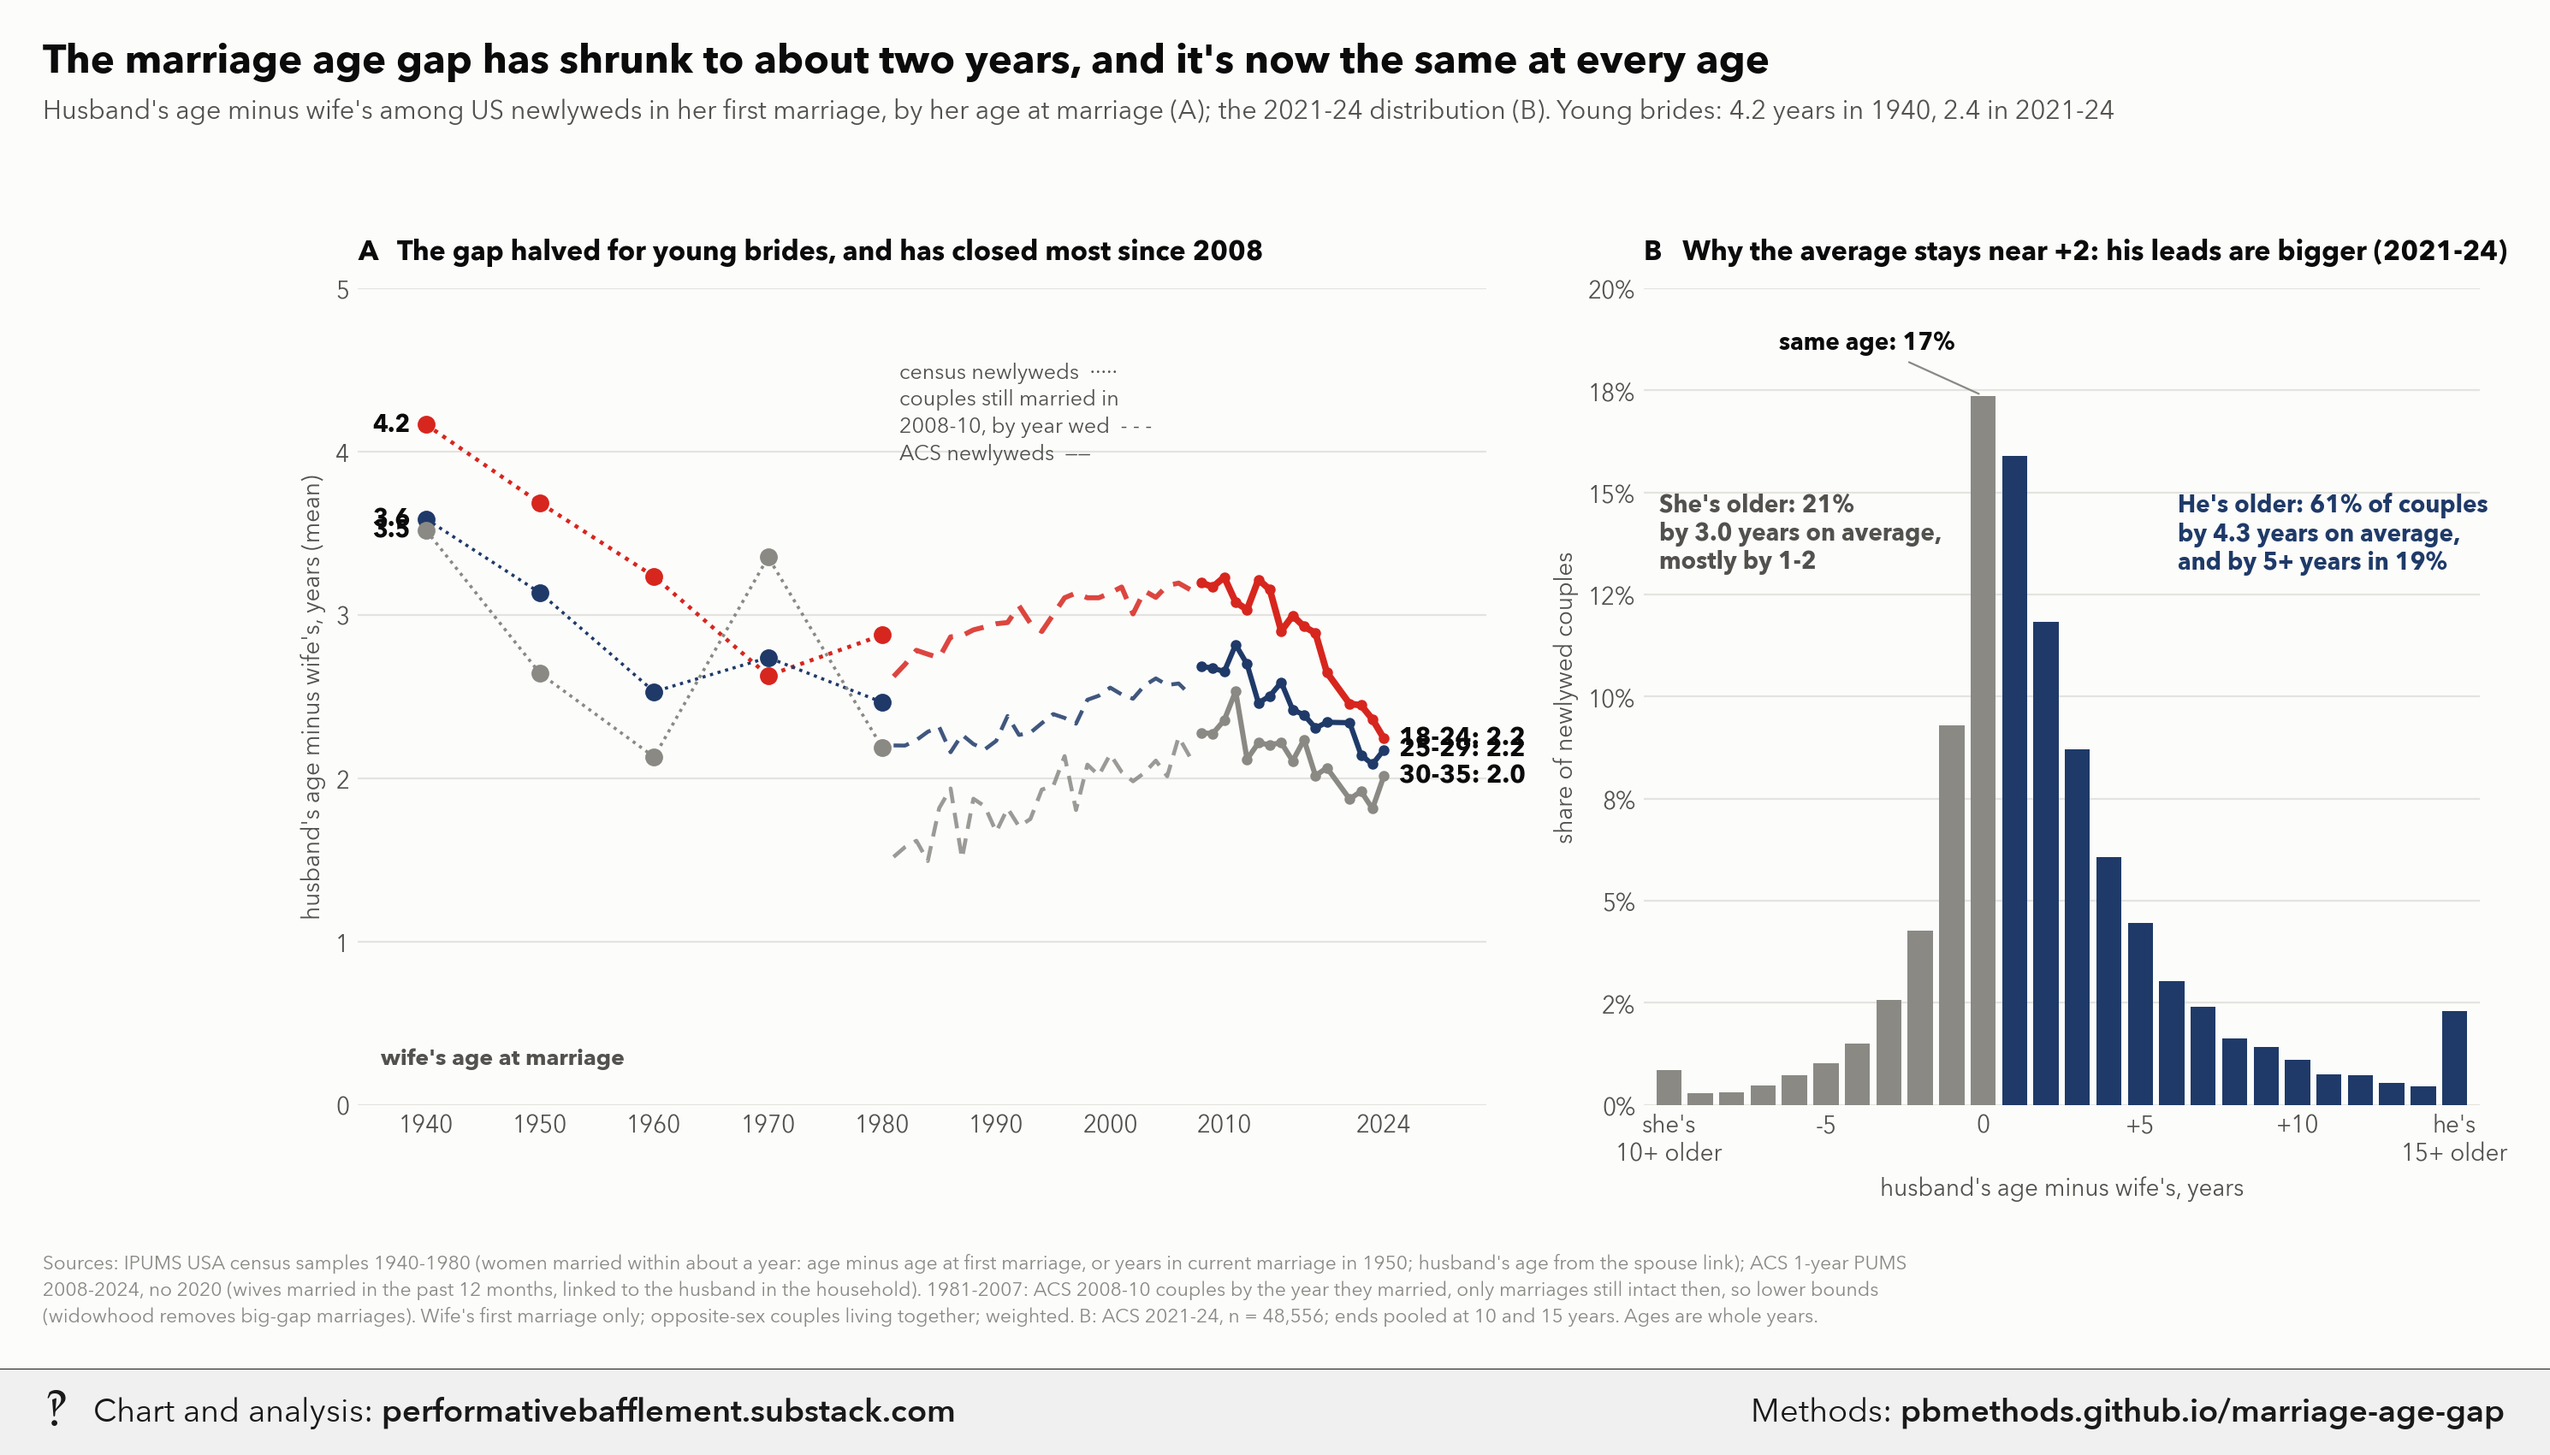
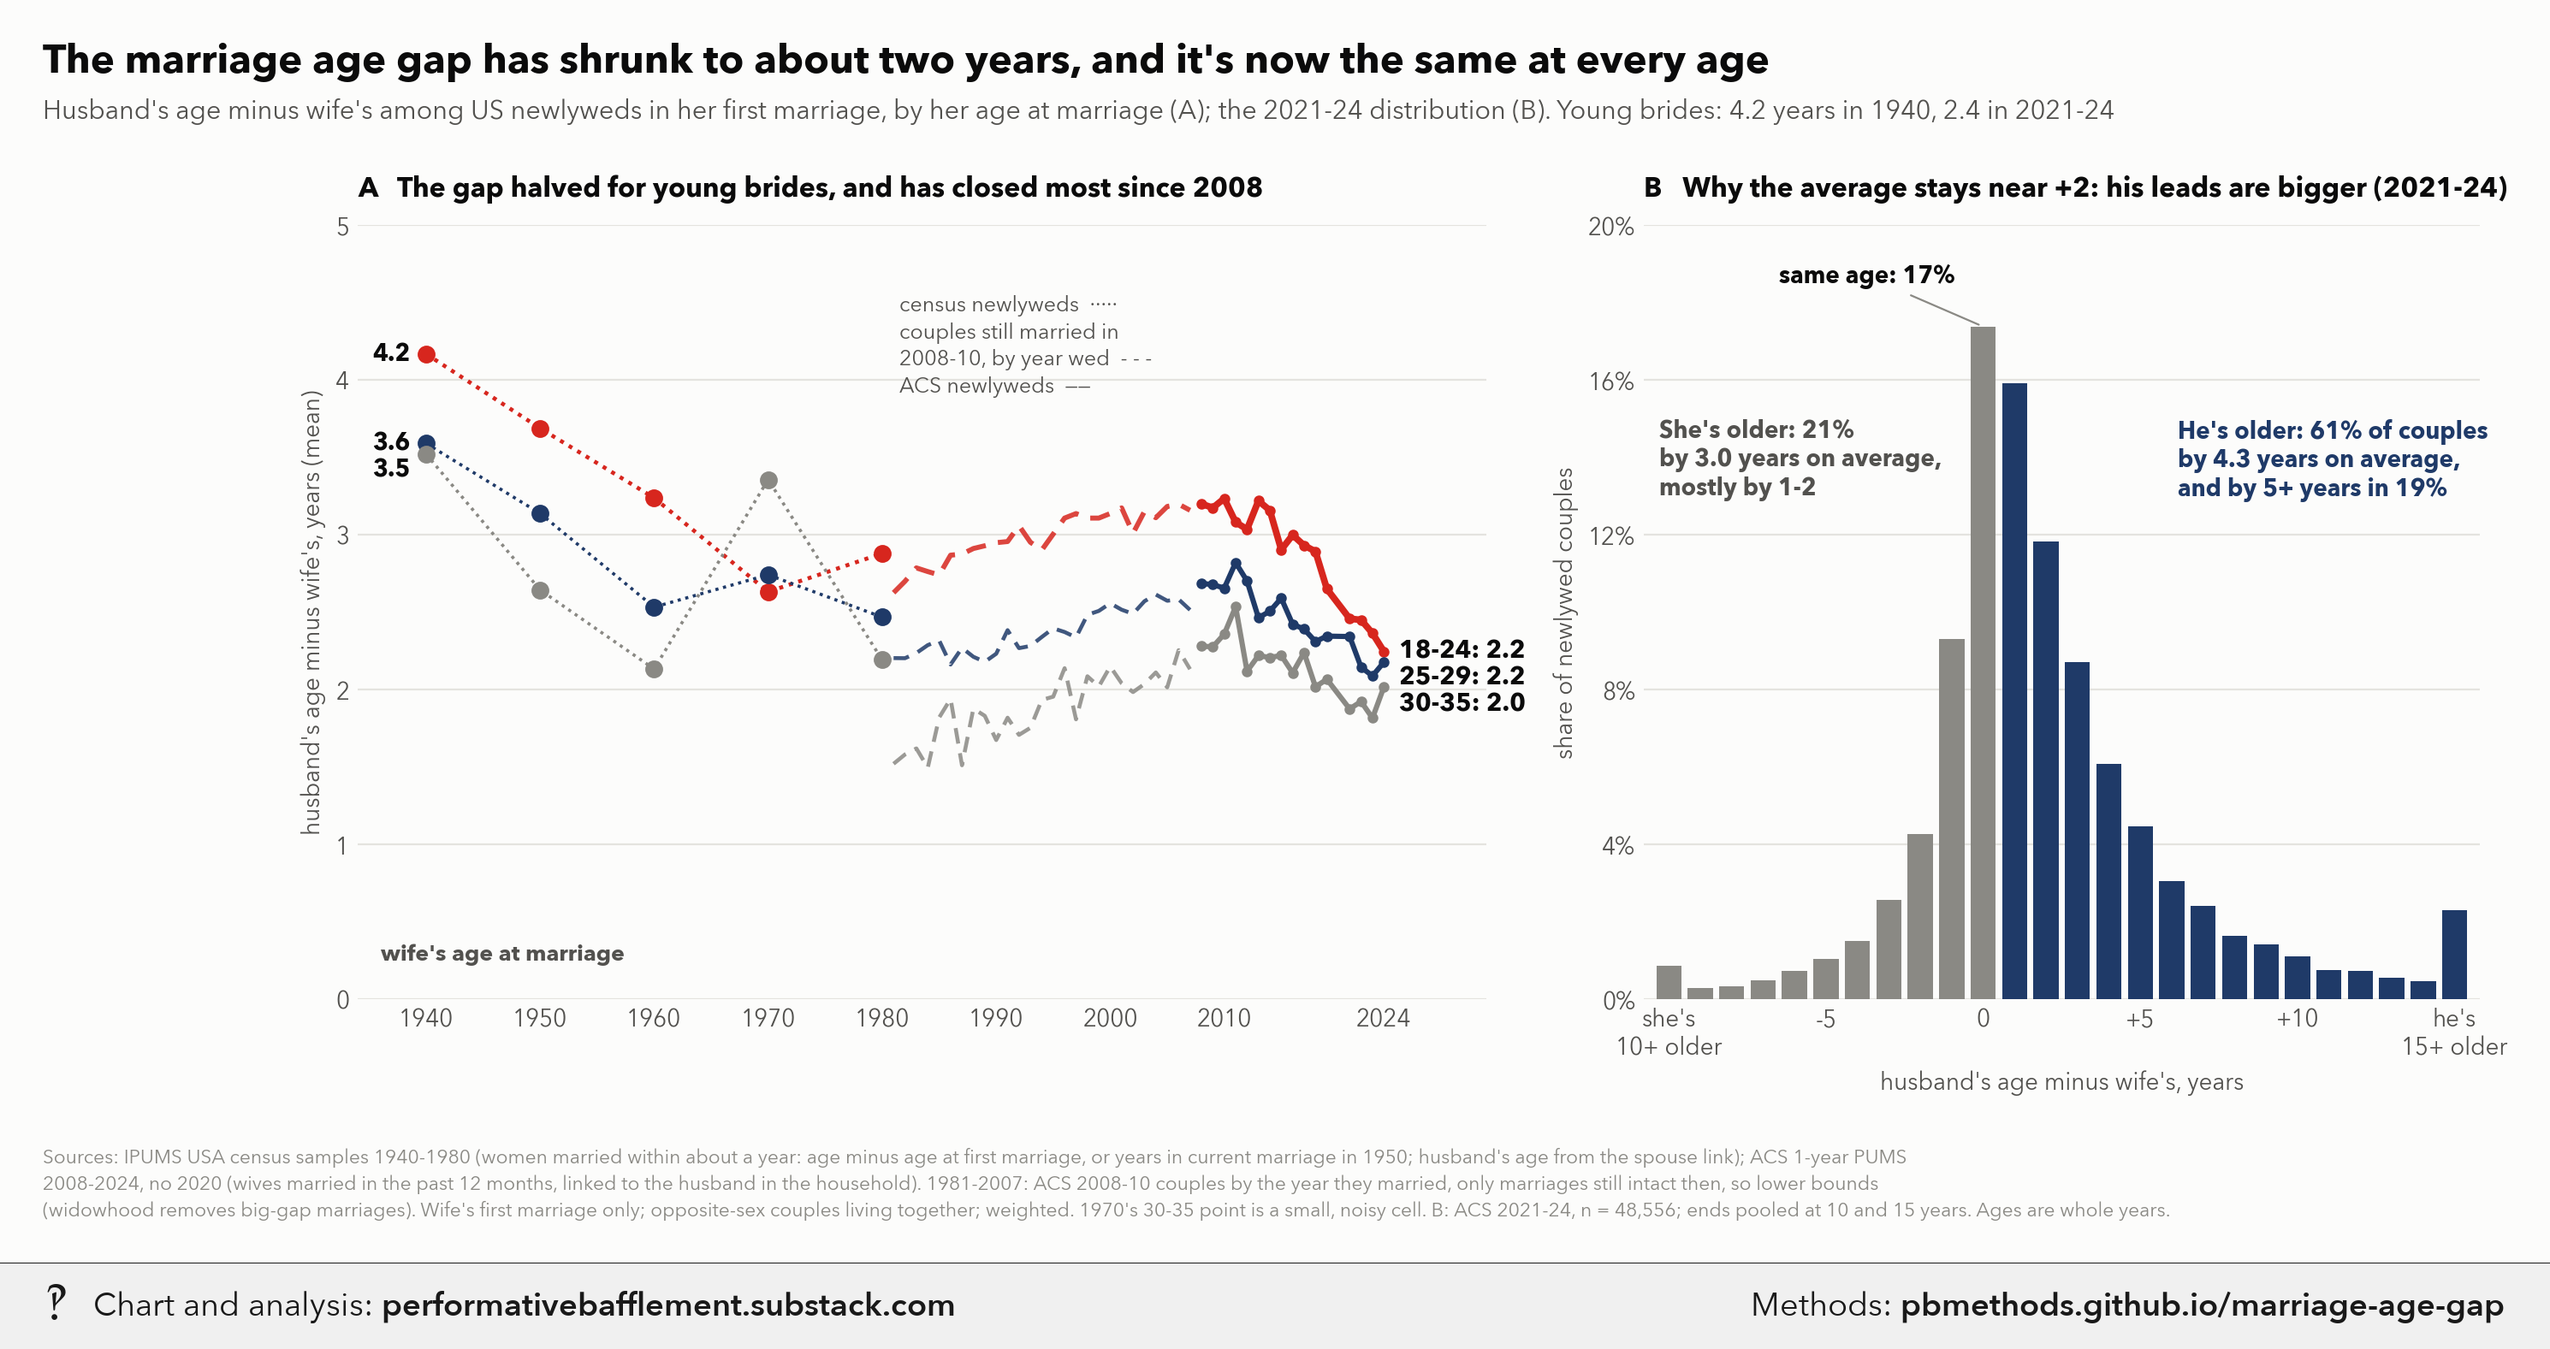
Update marriage-age-gap

diff --git a/marriage-age-gap/index.html b/marriage-age-gap/index.html
@@ -1210,8 +1210,19 @@ dist = pd.read_csv(HERE / &quot;age_gap_distribution_2021_24.csv&quot;)
 recent = d[d.year.ge(2021) &amp; d.source.eq(&quot;ACS newlyweds&quot;)].groupby(&quot;band&quot;).mean(numeric_only=True)
 
 fig, (ax, bx) = plt.subplots(1, 2, figsize=(16, 6.2), gridspec_kw=dict(width_ratios=[1.35, 1], wspace=0.16))
+fig.subplots_adjust(top=0.84)
 
 # ---------------------------------------------------------------- A: trend
+def spread(vals, gap=0.17):
+    &quot;&quot;&quot;Nudge label heights apart (top to bottom) so they don't overlap.&quot;&quot;&quot;
+    order = sorted(vals, key=vals.get, reverse=True); out, prev = {}, None
+    for k in order:
+        y = vals[k] if prev is None else min(vals[k], prev - gap)
+        out[k] = prev = y
+    return out
+
+
+ends, starts = {}, {}
 for band, col in BAND_COL.items():
     s = d[d.band.eq(band)]
     cen = s[s.source.eq(&quot;census newlyweds&quot;)].sort_values(&quot;year&quot;)
@@ -1221,13 +1232,11 @@ for band, col in BAND_COL.items():
     ax.plot(cen.year, cen.mean_gap, color=col, lw=lw * 0.6, ls=(0, (1, 1.5)), marker=&quot;o&quot;, ms=6.5, zorder=3)
     ax.plot(rec.year, rec.mean_gap, color=col, lw=lw * 0.75, ls=(0, (4, 2.5)), alpha=0.85, zorder=2)
     ax.plot(acs.year, acs.mean_gap, color=col, lw=lw, marker=&quot;o&quot;, ms=3.5, zorder=3)
-    last = acs.iloc[-1]
-    ax.text(2025.3, last.mean_gap, f&quot;{band}: {last.mean_gap:.1f}&quot;, color=INK, fontsize=10.5, fontweight=&quot;bold&quot;,
-            va=&quot;center&quot;, ha=&quot;left&quot;)
-    first = cen.iloc[0]
-    ax.text(1938.6, first.mean_gap, f&quot;{first.mean_gap:.1f}&quot;, color=INK, fontsize=10, fontweight=&quot;bold&quot;,
-            va=&quot;center&quot;, ha=&quot;right&quot;)
-# keep the 2024 labels apart (25-29 and 30-35 end close together)
+    ends[band], starts[band] = acs.iloc[-1].mean_gap, cen.iloc[0].mean_gap
+for band, y in spread(ends).items():
+    ax.text(2025.3, y, f&quot;{band}: {ends[band]:.1f}&quot;, color=INK, fontsize=10.5, fontweight=&quot;bold&quot;, va=&quot;center&quot;)
+for band, y in spread(starts).items():
+    ax.text(1938.6, y, f&quot;{starts[band]:.1f}&quot;, color=INK, fontsize=10, fontweight=&quot;bold&quot;, va=&quot;center&quot;, ha=&quot;right&quot;)
 ax.set_xlim(1934, 2033); ax.set_ylim(0, 5)
 ax.set_xticks([1940, 1950, 1960, 1970, 1980, 1990, 2000, 2010, 2024])
 ax.set_ylabel(&quot;husband's age minus wife's, years (mean)&quot;)
@@ -1250,16 +1259,16 @@ bx.text(-10.3, 0.15, f&quot;She's older: {r.share_she_older:.0%}\nby {-r.mean_wh
 bx.annotate(f&quot;same age: {r.share_same_age:.0%}&quot;, xy=(0, a.share[a.gap == 0].iloc[0]), xytext=(-6.5, 0.185),
             fontsize=10, fontweight=&quot;bold&quot;, color=INK, arrowprops=dict(arrowstyle=&quot;-&quot;, color=MUTED, lw=0.8))
 bx.set_xticks([-10, -5, 0, 5, 10, 15], [&quot;she's\n10+ older&quot;, &quot;-5&quot;, &quot;0&quot;, &quot;+5&quot;, &quot;+10&quot;, &quot;he's\n15+ older&quot;])
-bx.set_xlim(-10.8, 15.8); bx.set_ylim(0, 0.2)
+bx.set_xlim(-10.8, 15.8); bx.set_ylim(0, 0.2); bx.set_yticks(np.arange(0, 0.21, 0.04))
 bx.yaxis.set_major_formatter(plt.FuncFormatter(lambda v, _: f&quot;{v:.0%}&quot;))
 bx.set_xlabel(&quot;husband's age minus wife's, years&quot;); bx.set_ylabel(&quot;share of newlywed couples&quot;)
 bx.set_title(f&quot;B   Why the average stays near +{r.mean_gap:.0f}: his leads are bigger (2021-24)&quot;, loc=&quot;left&quot;,
              fontsize=11.5, fontweight=&quot;bold&quot;, color=INK, pad=12)
 
 y18 = d[d.band.eq(&quot;18-24&quot;) &amp; d.source.eq(&quot;census newlyweds&quot;) &amp; d.year.eq(1940)].mean_gap.iloc[0]
-fig.text(0.01, 1.075, f&quot;The marriage age gap has shrunk to about two years, and it's now the same at every age&quot;,
+fig.text(0.01, 0.975, f&quot;The marriage age gap has shrunk to about two years, and it's now the same at every age&quot;,
          fontsize=17, fontweight=&quot;bold&quot;, color=INK, ha=&quot;left&quot;, va=&quot;bottom&quot;)
-fig.text(0.01, 1.035, f&quot;Husband's age minus wife's among US newlyweds in her first marriage, by her age at marriage &quot;
+fig.text(0.01, 0.935, f&quot;Husband's age minus wife's among US newlyweds in her first marriage, by her age at marriage &quot;
          f&quot;(A); the 2021-24 distribution (B). Young brides: {y18:.1f} years in 1940, &quot;
          f&quot;{recent.loc['18-24'].mean_gap:.1f} in 2021-24&quot;, fontsize=11, color=INK2, ha=&quot;left&quot;, va=&quot;bottom&quot;)
 n_recent = int(d[d.year.ge(2021) &amp; d.source.eq(&quot;ACS newlyweds&quot;) &amp; d.band.eq(&quot;all 18+&quot;)].n.sum())
@@ -1269,7 +1278,7 @@ fig.text(0.01, -0.03,
          &quot;2008-2024, no 2020 (wives married in the past 12 months, linked to the husband in the household). 1981-2007: &quot;
          &quot;ACS 2008-10 couples by the year they married, only marriages still intact then, so lower bounds\n&quot;
          &quot;(widowhood removes big-gap marriages). Wife's first marriage only; opposite-sex couples living together; &quot;
-         f&quot;weighted. B: ACS 2021-24, n = {n_recent:,}; ends pooled at 10 and 15 years. Ages are whole years.&quot;,
+         f&quot;weighted. 1970's 30-35 point is a small, noisy cell. B: ACS 2021-24, n = {n_recent:,}; ends pooled at 10 and 15 years. Ages are whole years.&quot;,
          fontsize=8.2, color=MUTED, ha=&quot;left&quot;, va=&quot;top&quot;, linespacing=1.45)
 
 OUT_WM.mkdir(parents=True, exist_ok=True); OUT_RAW.mkdir(parents=True, exist_ok=True)

diff --git a/index.html b/index.html
@@ -24,8 +24,8 @@ li{margin:.2rem 0}
 <h1>Performative Bafflement: chart methods</h1>
 <p>Methodology, results and code behind charts from <a href="https://performativebafflement.substack.com/">Performative Bafflement</a>. Each page has a plain-text <code>methods.md</code> for AI fact-checking.</p>
 <ul>
-<li><a href="sex-dynamics/">The master post of sexual and relationship dynamics: looks, money, height, paying for sex, marriage, porn and wanting more</a> (2026-11-14)</li>
 <li><a href="marriage-age-gap/">The husband-wife age gap at marriage, US 1940-2024, by the wife's age at marriage</a> (2026-11-14)</li>
+<li><a href="sex-dynamics/">The master post of sexual and relationship dynamics: looks, money, height, paying for sex, marriage, porn and wanting more</a> (2026-11-14)</li>
 <li><a href="lifestyle-risk/">Obese, sedentary, bad diet, smoking: all-cause death-rate multipliers at ages 40+</a> (2026-11-11)</li>
 <li><a href="spam-calls/">US spam calls vs the world, and what share of your calls are spam</a> (2026-11-11)</li>
 <li><a href="us-uk-gap/">The US–UK life expectancy gap: what drives it, and what four big interventions could buy back</a> (2026-11-11)</li>

diff --git a/marriage-age-gap/methods.md b/marriage-age-gap/methods.md
@@ -384,8 +384,19 @@ dist = pd.read_csv(HERE / "age_gap_distribution_2021_24.csv")
 recent = d[d.year.ge(2021) & d.source.eq("ACS newlyweds")].groupby("band").mean(numeric_only=True)
 
 fig, (ax, bx) = plt.subplots(1, 2, figsize=(16, 6.2), gridspec_kw=dict(width_ratios=[1.35, 1], wspace=0.16))
+fig.subplots_adjust(top=0.84)
 
 # ---------------------------------------------------------------- A: trend
+def spread(vals, gap=0.17):
+    """Nudge label heights apart (top to bottom) so they don't overlap."""
+    order = sorted(vals, key=vals.get, reverse=True); out, prev = {}, None
+    for k in order:
+        y = vals[k] if prev is None else min(vals[k], prev - gap)
+        out[k] = prev = y
+    return out
+
+
+ends, starts = {}, {}
 for band, col in BAND_COL.items():
     s = d[d.band.eq(band)]
     cen = s[s.source.eq("census newlyweds")].sort_values("year")
@@ -395,13 +406,11 @@ for band, col in BAND_COL.items():
     ax.plot(cen.year, cen.mean_gap, color=col, lw=lw * 0.6, ls=(0, (1, 1.5)), marker="o", ms=6.5, zorder=3)
     ax.plot(rec.year, rec.mean_gap, color=col, lw=lw * 0.75, ls=(0, (4, 2.5)), alpha=0.85, zorder=2)
     ax.plot(acs.year, acs.mean_gap, color=col, lw=lw, marker="o", ms=3.5, zorder=3)
-    last = acs.iloc[-1]
-    ax.text(2025.3, last.mean_gap, f"{band}: {last.mean_gap:.1f}", color=INK, fontsize=10.5, fontweight="bold",
-            va="center", ha="left")
-    first = cen.iloc[0]
-    ax.text(1938.6, first.mean_gap, f"{first.mean_gap:.1f}", color=INK, fontsize=10, fontweight="bold",
-            va="center", ha="right")
-# keep the 2024 labels apart (25-29 and 30-35 end close together)
+    ends[band], starts[band] = acs.iloc[-1].mean_gap, cen.iloc[0].mean_gap
+for band, y in spread(ends).items():
+    ax.text(2025.3, y, f"{band}: {ends[band]:.1f}", color=INK, fontsize=10.5, fontweight="bold", va="center")
+for band, y in spread(starts).items():
+    ax.text(1938.6, y, f"{starts[band]:.1f}", color=INK, fontsize=10, fontweight="bold", va="center", ha="right")
 ax.set_xlim(1934, 2033); ax.set_ylim(0, 5)
 ax.set_xticks([1940, 1950, 1960, 1970, 1980, 1990, 2000, 2010, 2024])
 ax.set_ylabel("husband's age minus wife's, years (mean)")
@@ -424,16 +433,16 @@ bx.text(-10.3, 0.15, f"She's older: {r.share_she_older:.0%}\nby {-r.mean_when_sh
 bx.annotate(f"same age: {r.share_same_age:.0%}", xy=(0, a.share[a.gap == 0].iloc[0]), xytext=(-6.5, 0.185),
             fontsize=10, fontweight="bold", color=INK, arrowprops=dict(arrowstyle="-", color=MUTED, lw=0.8))
 bx.set_xticks([-10, -5, 0, 5, 10, 15], ["she's\n10+ older", "-5", "0", "+5", "+10", "he's\n15+ older"])
-bx.set_xlim(-10.8, 15.8); bx.set_ylim(0, 0.2)
+bx.set_xlim(-10.8, 15.8); bx.set_ylim(0, 0.2); bx.set_yticks(np.arange(0, 0.21, 0.04))
 bx.yaxis.set_major_formatter(plt.FuncFormatter(lambda v, _: f"{v:.0%}"))
 bx.set_xlabel("husband's age minus wife's, years"); bx.set_ylabel("share of newlywed couples")
 bx.set_title(f"B   Why the average stays near +{r.mean_gap:.0f}: his leads are bigger (2021-24)", loc="left",
              fontsize=11.5, fontweight="bold", color=INK, pad=12)
 
 y18 = d[d.band.eq("18-24") & d.source.eq("census newlyweds") & d.year.eq(1940)].mean_gap.iloc[0]
-fig.text(0.01, 1.075, f"The marriage age gap has shrunk to about two years, and it's now the same at every age",
+fig.text(0.01, 0.975, f"The marriage age gap has shrunk to about two years, and it's now the same at every age",
          fontsize=17, fontweight="bold", color=INK, ha="left", va="bottom")
-fig.text(0.01, 1.035, f"Husband's age minus wife's among US newlyweds in her first marriage, by her age at marriage "
+fig.text(0.01, 0.935, f"Husband's age minus wife's among US newlyweds in her first marriage, by her age at marriage "
          f"(A); the 2021-24 distribution (B). Young brides: {y18:.1f} years in 1940, "
          f"{recent.loc['18-24'].mean_gap:.1f} in 2021-24", fontsize=11, color=INK2, ha="left", va="bottom")
 n_recent = int(d[d.year.ge(2021) & d.source.eq("ACS newlyweds") & d.band.eq("all 18+")].n.sum())
@@ -443,7 +452,7 @@ fig.text(0.01, -0.03,
          "2008-2024, no 2020 (wives married in the past 12 months, linked to the husband in the household). 1981-2007: "
          "ACS 2008-10 couples by the year they married, only marriages still intact then, so lower bounds\n"
          "(widowhood removes big-gap marriages). Wife's first marriage only; opposite-sex couples living together; "
-         f"weighted. B: ACS 2021-24, n = {n_recent:,}; ends pooled at 10 and 15 years. Ages are whole years.",
+         f"weighted. 1970's 30-35 point is a small, noisy cell. B: ACS 2021-24, n = {n_recent:,}; ends pooled at 10 and 15 years. Ages are whole years.",
          fontsize=8.2, color=MUTED, ha="left", va="top", linespacing=1.45)
 
 OUT_WM.mkdir(parents=True, exist_ok=True); OUT_RAW.mkdir(parents=True, exist_ok=True)

diff --git a/index.md b/index.md
@@ -2,8 +2,8 @@
 
 Methodology, results and code behind charts from <a href="https://performativebafflement.substack.com/">Performative Bafflement</a>. Each page has a plain-text `methods.md` for AI fact-checking.
 
-- [The master post of sexual and relationship dynamics: looks, money, height, paying for sex, marriage, porn and wanting more](sex-dynamics/) (2026-11-14)
 - [The husband-wife age gap at marriage, US 1940-2024, by the wife's age at marriage](marriage-age-gap/) (2026-11-14)
+- [The master post of sexual and relationship dynamics: looks, money, height, paying for sex, marriage, porn and wanting more](sex-dynamics/) (2026-11-14)
 - [Obese, sedentary, bad diet, smoking: all-cause death-rate multipliers at ages 40+](lifestyle-risk/) (2026-11-11)
 - [US spam calls vs the world, and what share of your calls are spam](spam-calls/) (2026-11-11)
 - [The US–UK life expectancy gap: what drives it, and what four big interventions could buy back](us-uk-gap/) (2026-11-11)
